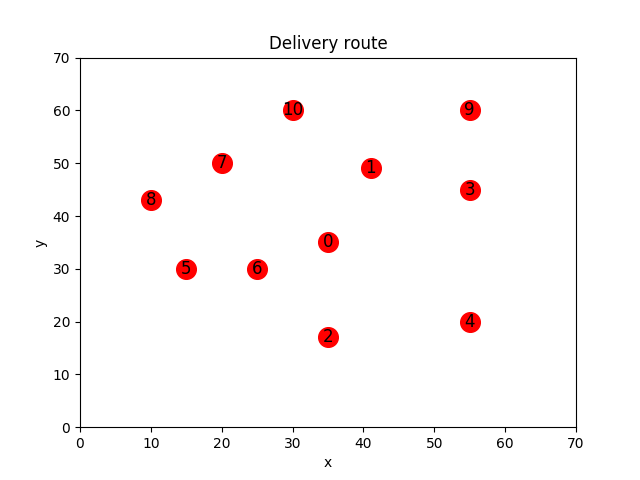
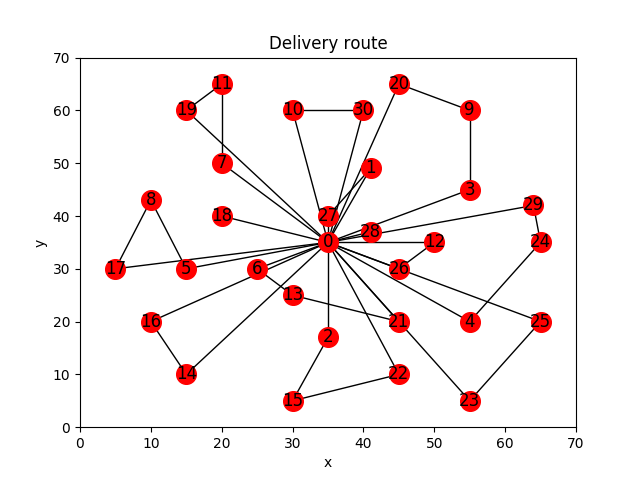
initialize.py セービング法によって生成したエッジを元に経路をプロットする処理

diff --git a/initialize.py b/initialize.py
@@ -9,6 +9,8 @@ import random
 from decimal import Decimal
 import numpy as np
 import pandas as pd
+import networkx as nx
+import matplotlib.pyplot as plt
 
 # # 遺伝子情報の長さ
 # GENOM_LENGTH = 50
@@ -72,65 +74,39 @@ def createCostMatrix(num_shelter):
     return arr
 
 
-def isNearDepot(edge, x):
-    if x[edge[0]][0] or x[0][edge[0]]:
-        if x[edge[1]][0] or x[0][edge[1]]:
-            return 1
-    return 0
+"""
+セービング法によりヒューリスティックな解を生成する
+@INPUT:
+    num_shelter : 避難所数
+    cost : 避難所間のコスト行列
+@OUTPUT:
 
-
-
+"""
 def savingMethod(num_shelter, cost):
-    print(cost)
-    saving = np.zeros((num_shelter, num_shelter), int) #小数点以下を加える→float型
-    # s_x = np.zeros((num_shelter, num_shelter), int) #小数点以下を加える→float型
-    # s_arr = np.empty((0, 3), int)
+    """
+    各避難所間のコストからセービング値を計算
+    経路結合のための初期化をする
+    """
     s = np.zeros((num_shelter, num_shelter), int)
-    # route_flag = False
-    # selected = []
-
     q = np.zeros((num_shelter), int)
     nex = np.zeros((num_shelter), int)
     tail = np.zeros((num_shelter), int)
     dr = np.zeros((num_shelter), int)
 
     for i in range(1, num_shelter):
-        # s_x[0][i] = 1
-        # s_x[i][0] = 1
-
         q[i] = df.ix[i].d
         nex[i] = 0
         tail[i] = i
         dr[i] = cost[0][i] + cost[i][0]
 
-
-    """
-    セービングファイルを作成する
-    s_arrは，
-
-    [i  j  s]
-    [i  j  s]
-    ......
-    という構造になっており，
-    i-j間のセービング値がsであり，sについて降順にソートしている
-    """
-    # for i in range(1, num_shelter):
-    #     for j in range(i+1, num_shelter):
-    #         saving[i][j] = cost[i][0] + cost[0][j] - cost[i][j]
-    #         if saving[i][j] > 0:
-    #             s_arr = np.append(s_arr, np.array([[i, j, saving[i][j]]]), axis=0)
-    # s_arr = s_arr[s_arr[:, 2].argsort()][::-1]
-    # # print(saving)
-    # print(s_arr)
-
     for i in range(1, num_shelter):
-        for j in range(i, num_shelter):
-            saving[i][j] = cost[i][0] + cost[0][j] - cost[i][j]
-            s[i][j] = saving[i][j]
-    # print(saving)
+        for j in range(i+1, num_shelter):
+            s[i][j] = cost[i][0] + cost[0][j] - cost[i][j]
     print(s)
 
-
+    """
+    経路の結合処理
+    """
     smax = 1
     while(smax != 0):
         smax = 0
@@ -150,12 +126,13 @@ def savingMethod(num_shelter, cost):
             q[g] = q[g] + q[h]
             q[h] = 0
 
-    print(nex)
-
-
+    """
+    経路の出力
+    """
     route = []
     heiro = []
-
+    demand = []
+    distance = []
     drt = 0
     for i in range(1, num_shelter):
         if q[i] > 0:
@@ -164,16 +141,124 @@ def savingMethod(num_shelter, cost):
                 heiro.append(ii)
                 ii = nex[ii]
                 if ii == 0:
-                    heiro.append(dr[i]) # その経路の移動コスト
-                    heiro.append(q[i]) # その経路の総需要
+                    distance.append(dr[i]) # その経路の移動コスト
+                    demand.append(q[i]) # その経路の総需要
                     drt += dr[i]
                     route.append(heiro)
                     heiro = []
                     break
 
     print(route)
+    print(demand)
+    print(distance)
+    print(drt)
+    return route
 
 
+    """
+    セービングファイルを作成する
+    s_arrは，
+
+    [i  j  s]
+    [i  j  s]
+    ......
+    という構造になっており，
+    i-j間のセービング値がsであり，sについて降順にソートしている
+    """
+    # s_x = np.zeros((num_shelter, num_shelter), int) #小数点以下を加える→float型
+    # s_arr = np.empty((0, 3), int)
+    #
+    # for i in range(1, num_shelter):
+    #     for j in range(i+1, num_shelter):
+    #         saving[i][j] = cost[i][0] + cost[0][j] - cost[i][j]
+    #         if saving[i][j] > 0:
+    #             s_arr = np.append(s_arr, np.array([[i, j, saving[i][j]]]), axis=0)
+    # s_arr = s_arr[s_arr[:, 2].argsort()][::-1]
+    # # print(saving)
+    # print(s_arr)
+
+
+
+"""
+グラフのリストを作成する
+@INPUT:
+    None
+@OUTPUT:
+    X:
+    Y:
+    N:
+    pos:
+    G:
+"""
+def createGraphList():
+    X = []
+    Y = []
+    N = []
+    G = nx.Graph()
+    pos = {}  #ノードの位置情報格納
+
+    # # デポ以外の座標を代入
+    # for i in range(num_shelter):
+    #     X.append(df.ix[i].x)
+    #     Y.append(df.ix[i].y)
+
+    # ノード番号とノードの座標を格納
+    for i in range(num_shelter):
+        N.append(i)
+        pos[i] = (df.ix[i].x, df.ix[i].y)
+
+    return(X, Y, N, pos, G)
+
+
+
+"""
+グラフをプロットする
+"""
+def graphPlot(G, N, e):
+    E = []
+    edge_labels = {}
+    sum_cost = 0
+    labels = {}
+
+    # for i in range(num_shelter):
+    #     for j in range(num_shelter):
+    #         if(x[i][j] == 1):
+    #             E.append((i, j))
+    #             edge_labels[(i, j)] = cost[i][j]
+
+    for edge in e:
+        for i, node in enumerate(edge):
+            if i == 0:
+                E.append([0, node])
+                pre_node = node
+            else:
+                E.append([pre_node, node])
+                pre_node = node
+                if i == len(edge)-1:
+                    E.append([node, 0])
+
+    for i in range(num_shelter):
+        # labels[i] = df.ix[i].d
+        labels[i] = i
+
+    G.add_nodes_from(N)
+    G.add_edges_from(E)
+    nx.draw_networkx(G, pos, with_labels=False, node_color='r', node_size=200)
+    nx.draw_networkx_labels(G, pos, labels, font_size=12)
+    nx.draw_networkx_edge_labels(G, pos, edge_labels=edge_labels, font_size=8)
+
+    plt.legend()
+    plt.xlabel("x")
+    plt.ylabel("y")
+    plt.xlim(0, 70)
+    plt.ylim(0, 70)
+    # plt.axis('off')
+    plt.title('Delivery route')
+    plt.savefig("./output/cvrp.png")  # save as png
+    plt.grid()
+    plt.show()
+
+    return(0)
 
 
 if __name__ == "__main__":
@@ -181,7 +266,7 @@ if __name__ == "__main__":
 
     df = createDataFrame("./data/", filename)
     # num_shelter = len(df.index)
-    num_shelter = 11
+    num_shelter = 31
 
     # 各避難所間の移動コスト行列を生成する
     # 2次元配列costで保持
@@ -190,4 +275,7 @@ if __name__ == "__main__":
     print(df[:11])
     # print(cost)
 
-    savingMethod(num_shelter, cost)
+    route = savingMethod(num_shelter, cost)
+
+    X, Y, N, pos, G = createGraphList()  #グラフ描画準備
+    graphPlot(G, N, route)
